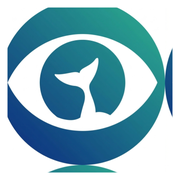
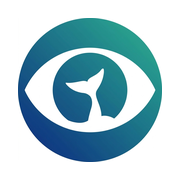
Добавил нижнее меню

diff --git a/frontend/src/components/MobileBottomNav.jsx b/frontend/src/components/MobileBottomNav.jsx
@@ -1,8 +1,17 @@
-import { NavLink } from 'react-router-dom'
-import { FiCompass, FiMapPin, FiUser } from 'react-icons/fi'
+import { useState, useEffect } from 'react'
+import { NavLink, useLocation } from 'react-router-dom'
+import { FiCompass, FiMapPin, FiUser, FiLogIn } from 'react-icons/fi'
 import './MobileBottomNav.css'
 
 const MobileBottomNav = () => {
+  const [isAuthenticated, setIsAuthenticated] = useState(false)
+  const location = useLocation()
+
+  useEffect(() => {
+    const token = localStorage.getItem('token')
+    setIsAuthenticated(!!token)
+  }, [location])
+
   return (
     <nav className="mobile-bottom-nav">
       <NavLink
@@ -26,15 +35,27 @@ const MobileBottomNav = () => {
         <span className="mobile-bottom-nav__label">О Териберке</span>
       </NavLink>
 
-      <NavLink
-        to="/profile"
-        className={({ isActive }) =>
-          `mobile-bottom-nav__item ${isActive ? 'mobile-bottom-nav__item--active' : ''}`
-        }
-      >
-        <FiUser className="mobile-bottom-nav__icon" />
-        <span className="mobile-bottom-nav__label">Профиль</span>
-      </NavLink>
+      {isAuthenticated ? (
+        <NavLink
+          to="/profile"
+          className={({ isActive }) =>
+            `mobile-bottom-nav__item ${isActive ? 'mobile-bottom-nav__item--active' : ''}`
+          }
+        >
+          <FiUser className="mobile-bottom-nav__icon" />
+          <span className="mobile-bottom-nav__label">Профиль</span>
+        </NavLink>
+      ) : (
+        <NavLink
+          to="/login"
+          className={({ isActive }) =>
+            `mobile-bottom-nav__item ${isActive ? 'mobile-bottom-nav__item--active' : ''}`
+          }
+        >
+          <FiLogIn className="mobile-bottom-nav__icon" />
+          <span className="mobile-bottom-nav__label">Вход</span>
+        </NavLink>
+      )}
     </nav>
   )
 }

diff --git a/frontend/src/styles/Navbar.css b/frontend/src/styles/Navbar.css
@@ -341,7 +341,7 @@
   }
 
   .navbar-toggle {
-    display: block;
+    display: none;
   }
 
   .navbar-overlay {

diff --git a/resize_icons.py b/resize_icons.py
@@ -1,0 +1,18 @@
+from PIL import Image
+
+out = "/Users/home/PycharmProjects/teriberka/frontend/public"
+src = Image.open(out + "/pwa-512x512.png").convert("RGBA")
+
+def mk(logo, size, pad, bg=(255, 255, 255, 255)):
+    c = Image.new("RGBA", (size, size), bg)
+    inner = int(size * (1 - 2 * pad))
+    r = logo.resize((inner, inner), Image.Resampling.LANCZOS)
+    o = (size - inner) // 2
+    c.paste(r, (o, o), r)
+    return c
+
+mk(src, 512, 0.15).save(out + "/pwa-512x512.png", "PNG")
+mk(src, 192, 0.15).save(out + "/pwa-192x192.png", "PNG")
+mk(src, 512, 0.20, bg=(74, 111, 165, 255)).save(out + "/pwa-maskable-512x512.png", "PNG")
+mk(src, 180, 0.12).save(out + "/apple-touch-icon-180x180.png", "PNG")
+print("Done")
